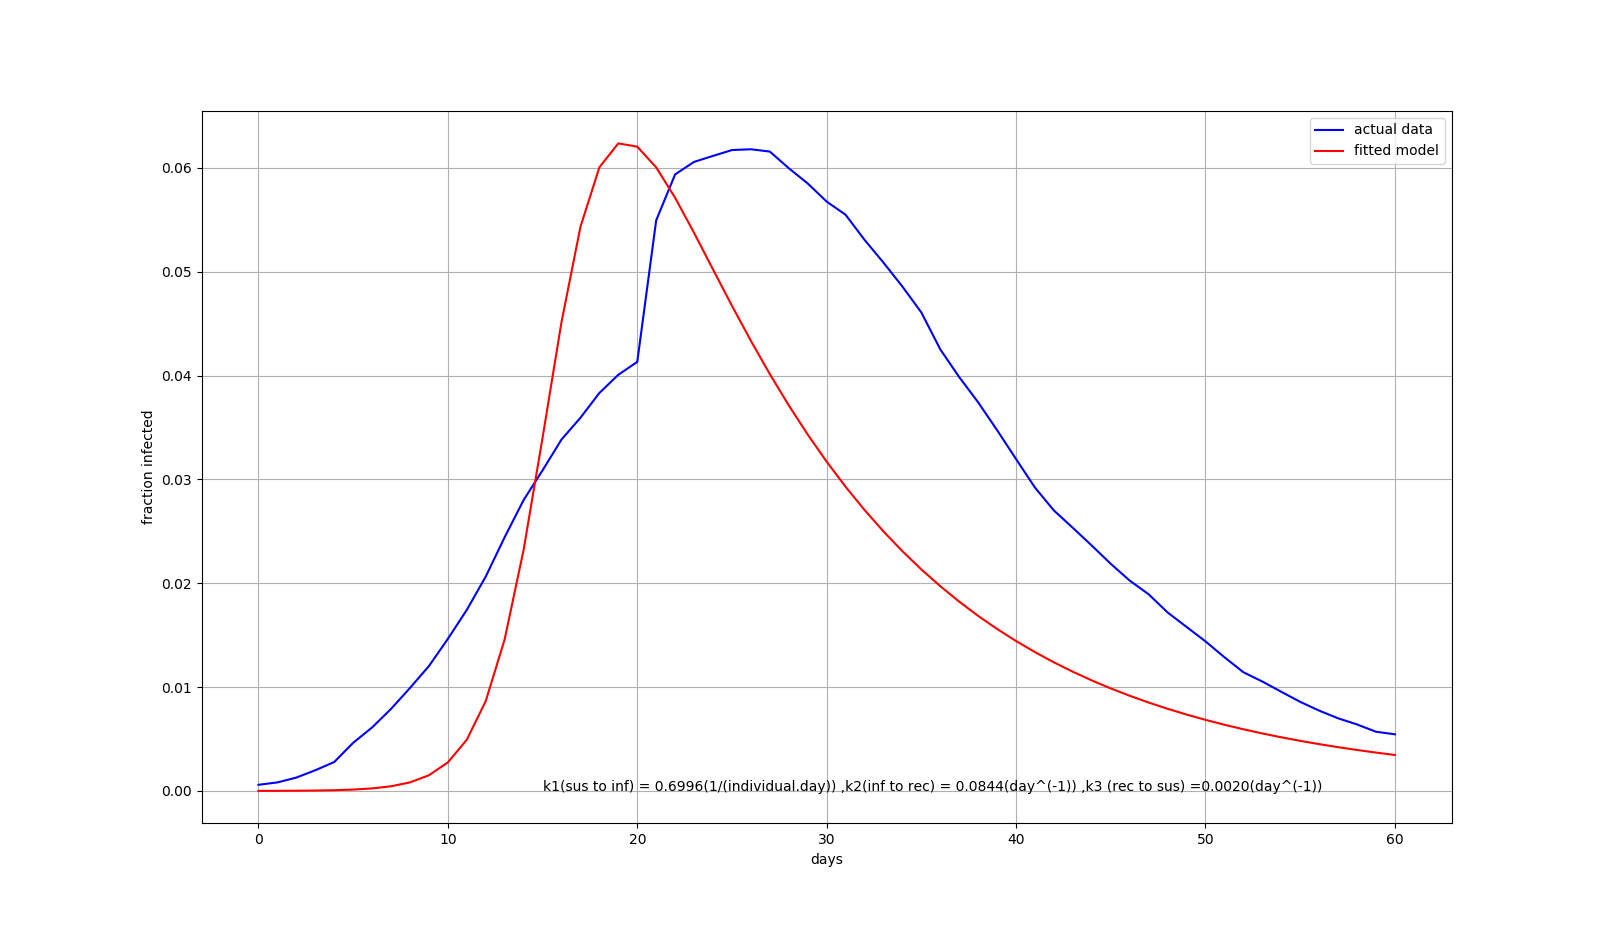
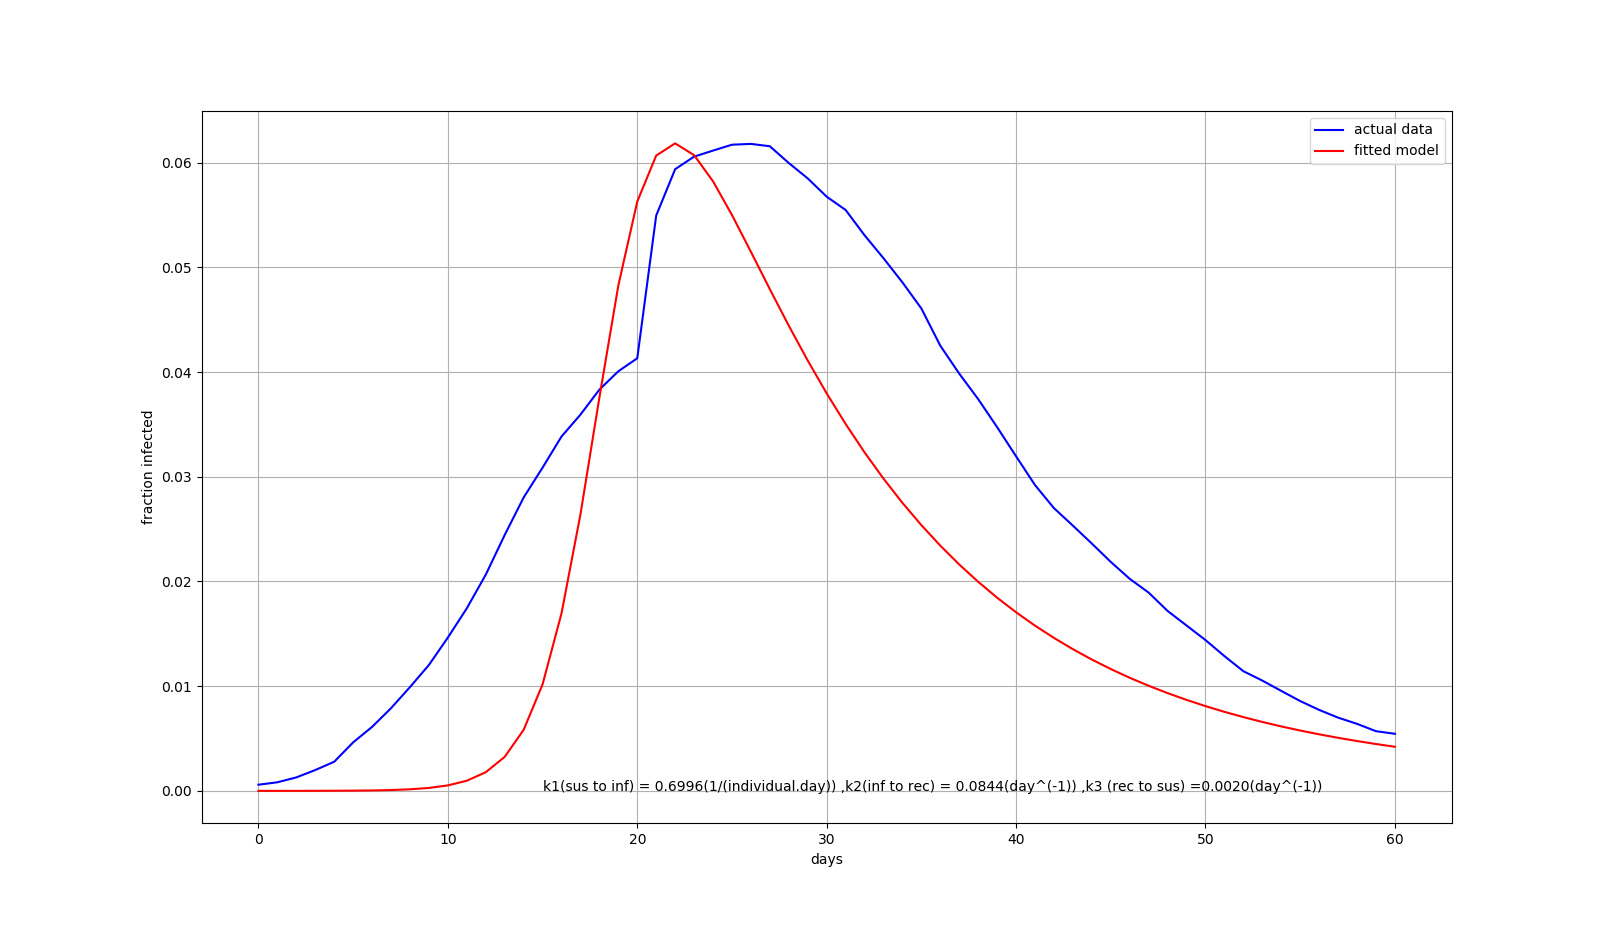
code and plot were updated

diff --git a/SIR_model.py b/SIR_model.py
@@ -2,7 +2,7 @@ import pandas as pd
 import numpy as np 
 #import ACATlib
 import importlib
-importlib.reload(ACATlib)
+#importlib.reload(ACATlib)
 from scipy.integrate import odeint
 import matplotlib.pyplot as plt
 from scipy.optimize import fsolve
@@ -28,9 +28,9 @@ beta = 0.34630808
 gama = 0.06379039 
 #====================================
 #qurantine_magicly the suxiptibles 
-sus_0 = 165000
-inf_0 = 10
-N = sus_0 + inf_0 
+inf_0 = 1
+sus_0 = (11080000/118)-inf_0
+N = 11080000/118
 N_ = [N]#,0.9*N,0.75*N]
 sus = [0.85*sus_0]#,0.75*sus_0,0.5*sus_0]
 color = ['b']#,'r','g','k'] 
@@ -96,14 +96,15 @@ sir_0_ = [(N-inf_0)/N,inf_0/N,0/N]
 sir_ = odeint(sir_model,sir_0_,t)
 print(p_fit)
 plt.figure(2)
-plt.plot(tspan,inf_,label='actual data',color = 'b')
-plt.plot(tspan,sir_[:,1],label='fitted model',color = 'r')
+plt.plot(tspan,(inf_/10),label='actual data',color = 'b')
+plt.plot(tspan,(sir_[:,1]/10),label='fitted model',color = 'r')
 plt.xlabel('days')
 plt.ylabel('fraction infected')
 plt.text(15,0,'k1(sus to inf) = 0.6996(1/(individual.day)) ,k2(inf to rec) = 0.0844(day^(-1)) ,k3 (rec to sus) =0.0020(day^(-1)) ')
 plt.legend()
 plt.grid()
 plt.show()
+
 
 
 
